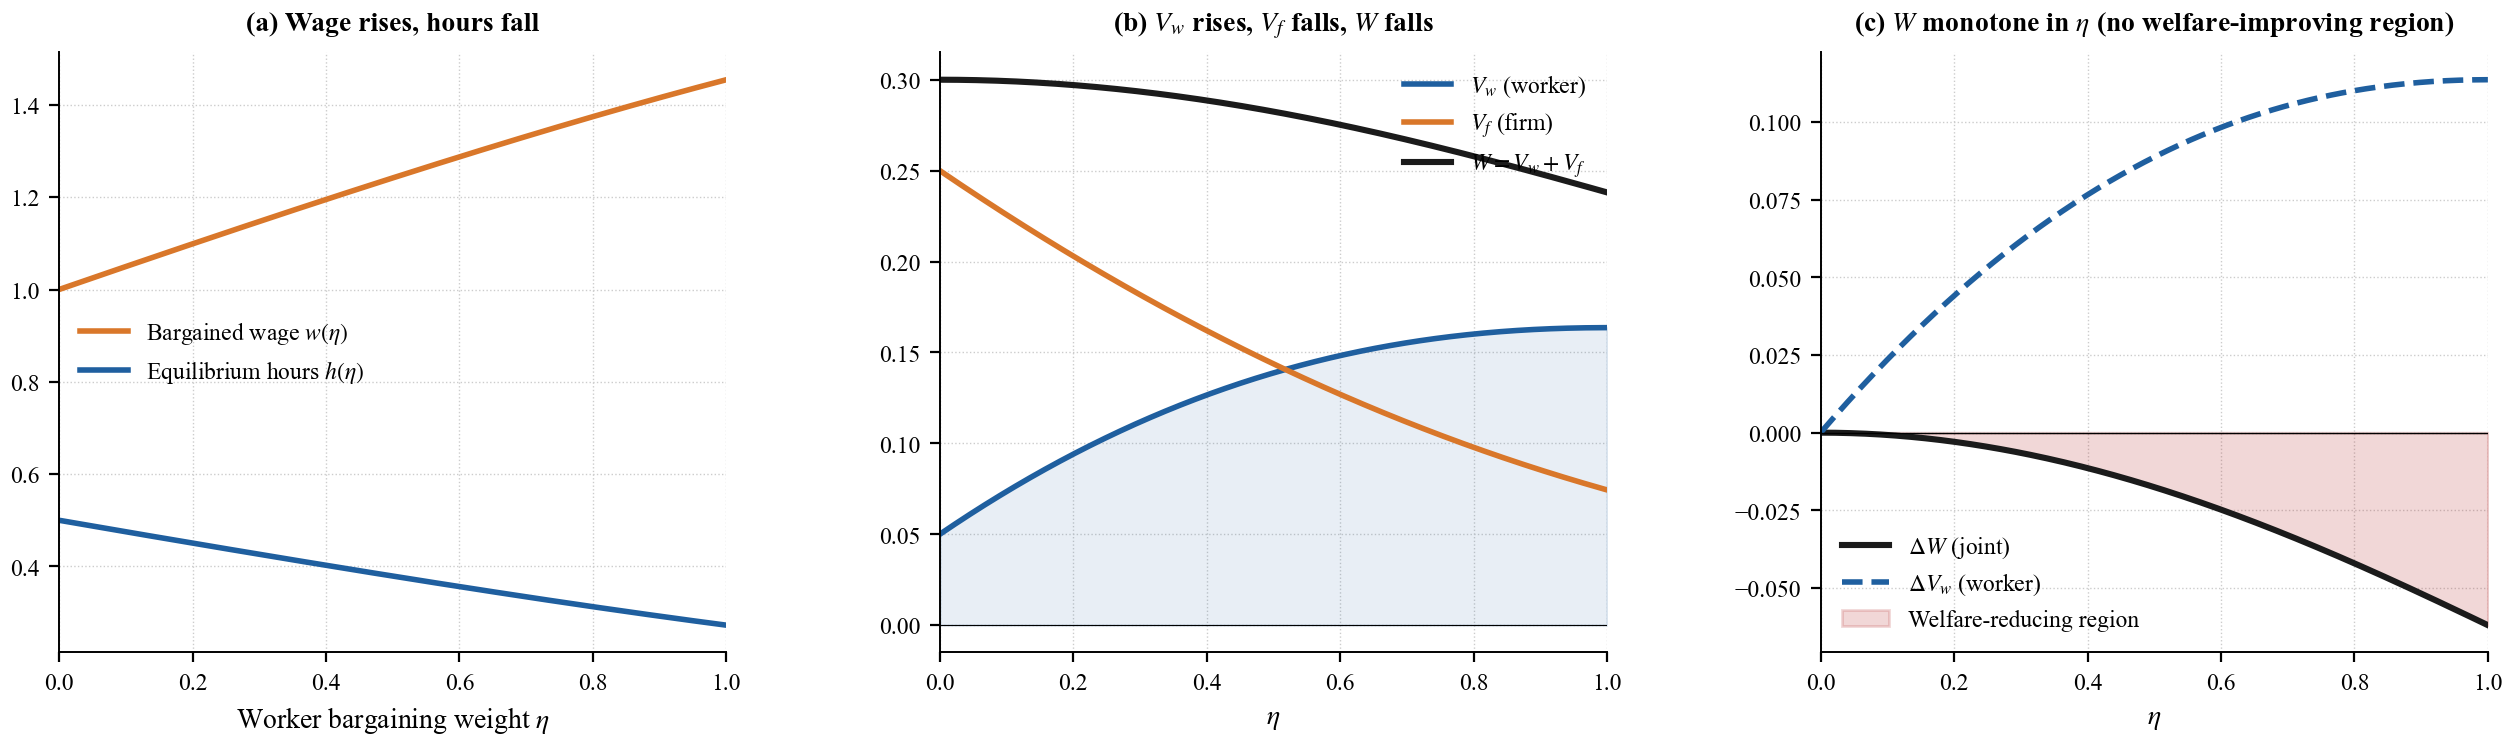
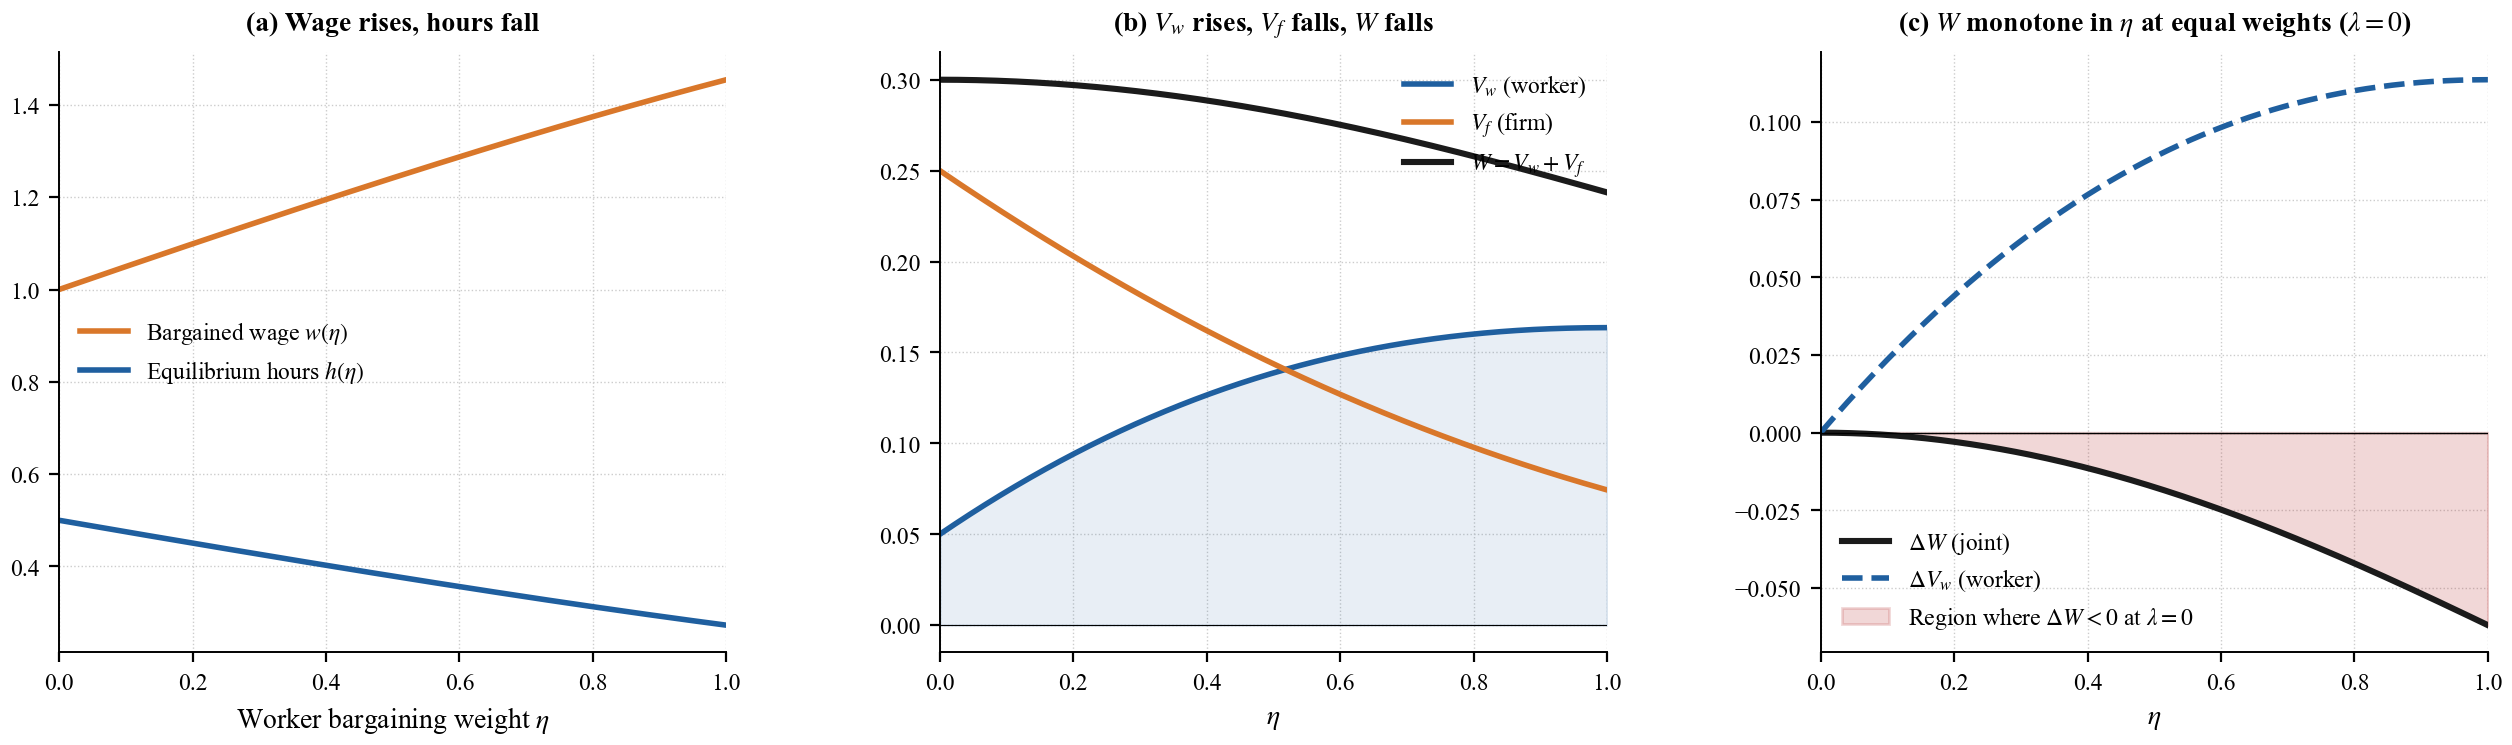
Update simulation script captions/comments to match no-tax-wedge framing
- sim_union_rtm panel (c): "$W$ monotone in $\eta$ at equal weights ($\lambda=0$)"
  (was "no welfare-improving region"); region label likewise
  criterion-conditional ("$\Delta W < 0$ at $\lambda=0$")
- Q7 docstring: removed stale "AGS-coordinated" framing and the
  "tax wedge tau*w*h" mechanism comment; replaced with the actual
  RTM + leisure-bonus + Saez-Stantcheva framework
- Regenerated all 6 figures (sim_decomposition, sim_union_rtm,
  sim_culture, sim_q7, sim_redistribution, sim_shocks)
- All numbers reproduce: Q7 +0.082 equal weights, +0.154 at lambda=0.30

Changed region(s): [[0.7452, 0.0, 0.9936, 0.0617], [0.7142, 0.7718, 0.8694, 0.8644], [0.7142, 0.7101, 0.8073, 0.7409]]

diff --git a/research/sim_models_v2.py b/research/sim_models_v2.py
@@ -313,9 +313,9 @@ def make_rtm():
     ax.plot(etas, dVw, color=C_WORKER, lw=2, ls='--',
             label=r'$\Delta V_w$ (worker)')
     ax.fill_between(etas, dW, 0, where=(dW <= 0), color=C_OVER, alpha=0.18,
-                    label='Welfare-reducing region')
+                    label=r'Region where $\Delta W < 0$ at $\lambda=0$')
     ax.set_xlabel(r'$\eta$')
-    ax.set_title(r'(c) $W$ monotone in $\eta$ (no welfare-improving region)')
+    ax.set_title(r'(c) $W$ monotone in $\eta$ at equal weights ($\lambda=0$)')
     ax.legend(loc='lower left')
     ax.set_xlim(0, 1)
     ax.axhline(0, color='black', lw=0.5)
@@ -475,16 +475,14 @@ def make_culture():
 
 
 # =====================================================================
-# 4) Q7 counterfactual decomposition under RTM + AGS
+# 4) Q7 counterfactual decomposition under RTM + leisure-bonus culture
 # =====================================================================
-# US: AGS-coordinated on h_H, no union (eta=0). W_US = 0.425.
-# EU: AGS-coordinated on h_L, with union (eta=0.5). W_EU = ?
-#
-# To combine the channels, we layer: at AGS equilibrium, h is fixed by
-# coordination (h=h_L for EU, h=h_H for US). On top of that, RTM bargain
-# determines wages. With h fixed by AGS, the firm pays w*h regardless;
-# the union pushes w up, redistributing from V_f to V_w but reducing W
-# via the tax wedge tau*w*h. We compute this layered welfare.
+# US: theta^US = 0, no union (eta=0). EU: theta^EU = 0.156, eta=0.5.
+# Each country's equilibrium is the RTM bargain at its own (theta, eta);
+# country-specific theta enters V_w through the leisure-bonus term.
+# Welfare is computed under equal weights (W = V_w + V_f); the
+# Saez-Stantcheva lambda extension is applied separately in
+# make_redistribution().
 
 def rtm_country(eta, theta_c, alpha=ALPHA, beta=BETA, tau=TAU, A_=A, vw0=VW0):
     """